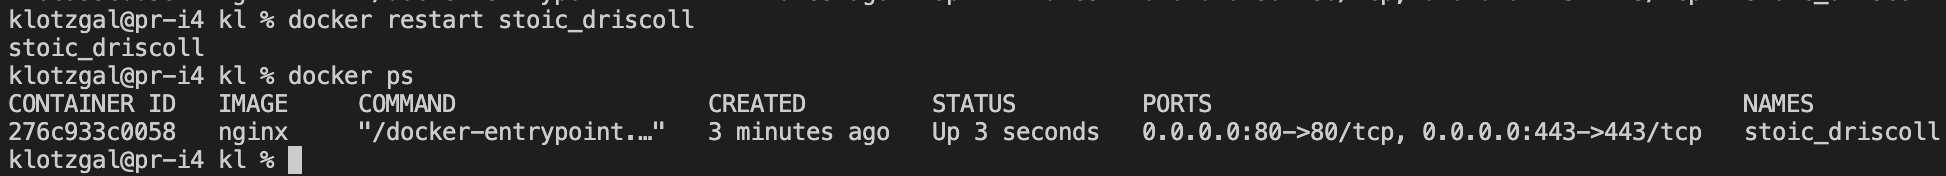
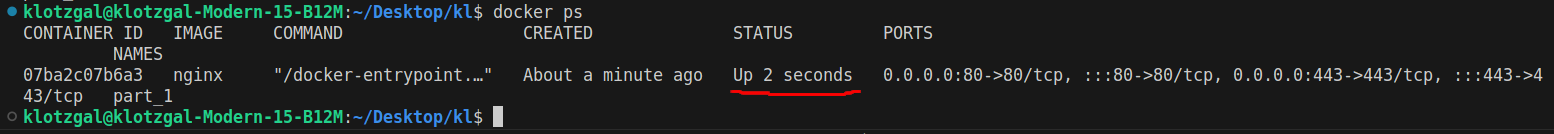
Перенес на домашний ноут

diff --git a/src/Otchet copy.md b/src/Otchet copy.md
@@ -23,7 +23,7 @@
   - !["Part 1"](screeens/../screens/1.6.png)
 ##### Запустить докер с портами 80 и 443 в контейнере, замапленными на такие же порты на локальной машине, через команду *run*
   - !["Part 1"](screeens/../screens/1.7.png)
-  - команда docker run -dp 80:80 -p 443:443 --name part_1 nginx
+  - команда docker run -dp 80:80 -p 443:443 nginx
 ##### Проверить, что в браузере по адресу *localhost:80* доступна стартовая страница **nginx**
   - !["Part 1"](screeens/../screens/1.8.png)
 ##### Перезапустить докер контейнер через `docker restart [container_id|container_name]`
@@ -38,35 +38,23 @@
 **== Задание ==**
 
 ##### Прочитать конфигурационный файл *nginx.conf* внутри докер контейнера через команду *exec*
-  - docker exec part_1 cat /etc/nginx/nginx.conf
   - !["Part 2"](screeens/../screens/2.1.png)
 ##### Создать на локальной машине файл *nginx.conf*
 ##### Настроить в нем по пути */status* отдачу страницы статуса сервера **nginx**
 ##### Скопировать созданный файл *nginx.conf* внутрь докер образа через команду `docker cp`
+  - docker cp Part02/nginx.conf part_2:/etc/nginx/nginx.conf
 ##### Перезапустить **nginx** внутри докер образа через команду *exec*
-  - docker cp Part02/nginx.conf part_1:/etc/nginx/nginx.conf
-
-  - docker exec part_1 nginx -s reload
+  - docker exec part_2 nginx -s reload
   - !["Part 2"](screeens/../screens/2.2.png)
 ##### Проверить, что по адресу *localhost:80/status* отдается страничка со статусом сервера **nginx**
   - !["Part 2"](screeens/../screens/2.3.png)
 ##### Экспортировать контейнер в файл *container.tar* через команду *export*
-  - docker export part_1 > container.tar
 ##### Остановить контейнер
-  - docker stop part_1
 ##### Удалить образ через `docker rmi [image_id|repository]`, не удаляя перед этим контейнеры
-  - docker rmi -f nginx
-  - !["Part 2"](screeens/../screens/2.4.png)
 ##### Удалить остановленный контейнер
-  - !["Part 2"](screeens/../screens/2.5.png)
 ##### Импортировать контейнер обратно через команду *import*
 ##### Запустить импортированный контейнер
-  - docker import -c 'CMD ["nginx", "-g", "daemon off;"]' container.tar kl_image
-  - docker run --name part_2 -dp 80:80 -p 443:443 kl_image
-  - docker ps
-  - !["Part 2"](screeens/../screens/2.6.png)
 ##### Проверить, что по адресу *localhost:80/status* отдается страничка со статусом сервера **nginx**
-  - !["Part 2"](screeens/../screens/2.7.png)
 
 - В отчёт поместить скрины:
   - вызова и вывода всех использованных в этой части задания команд;
